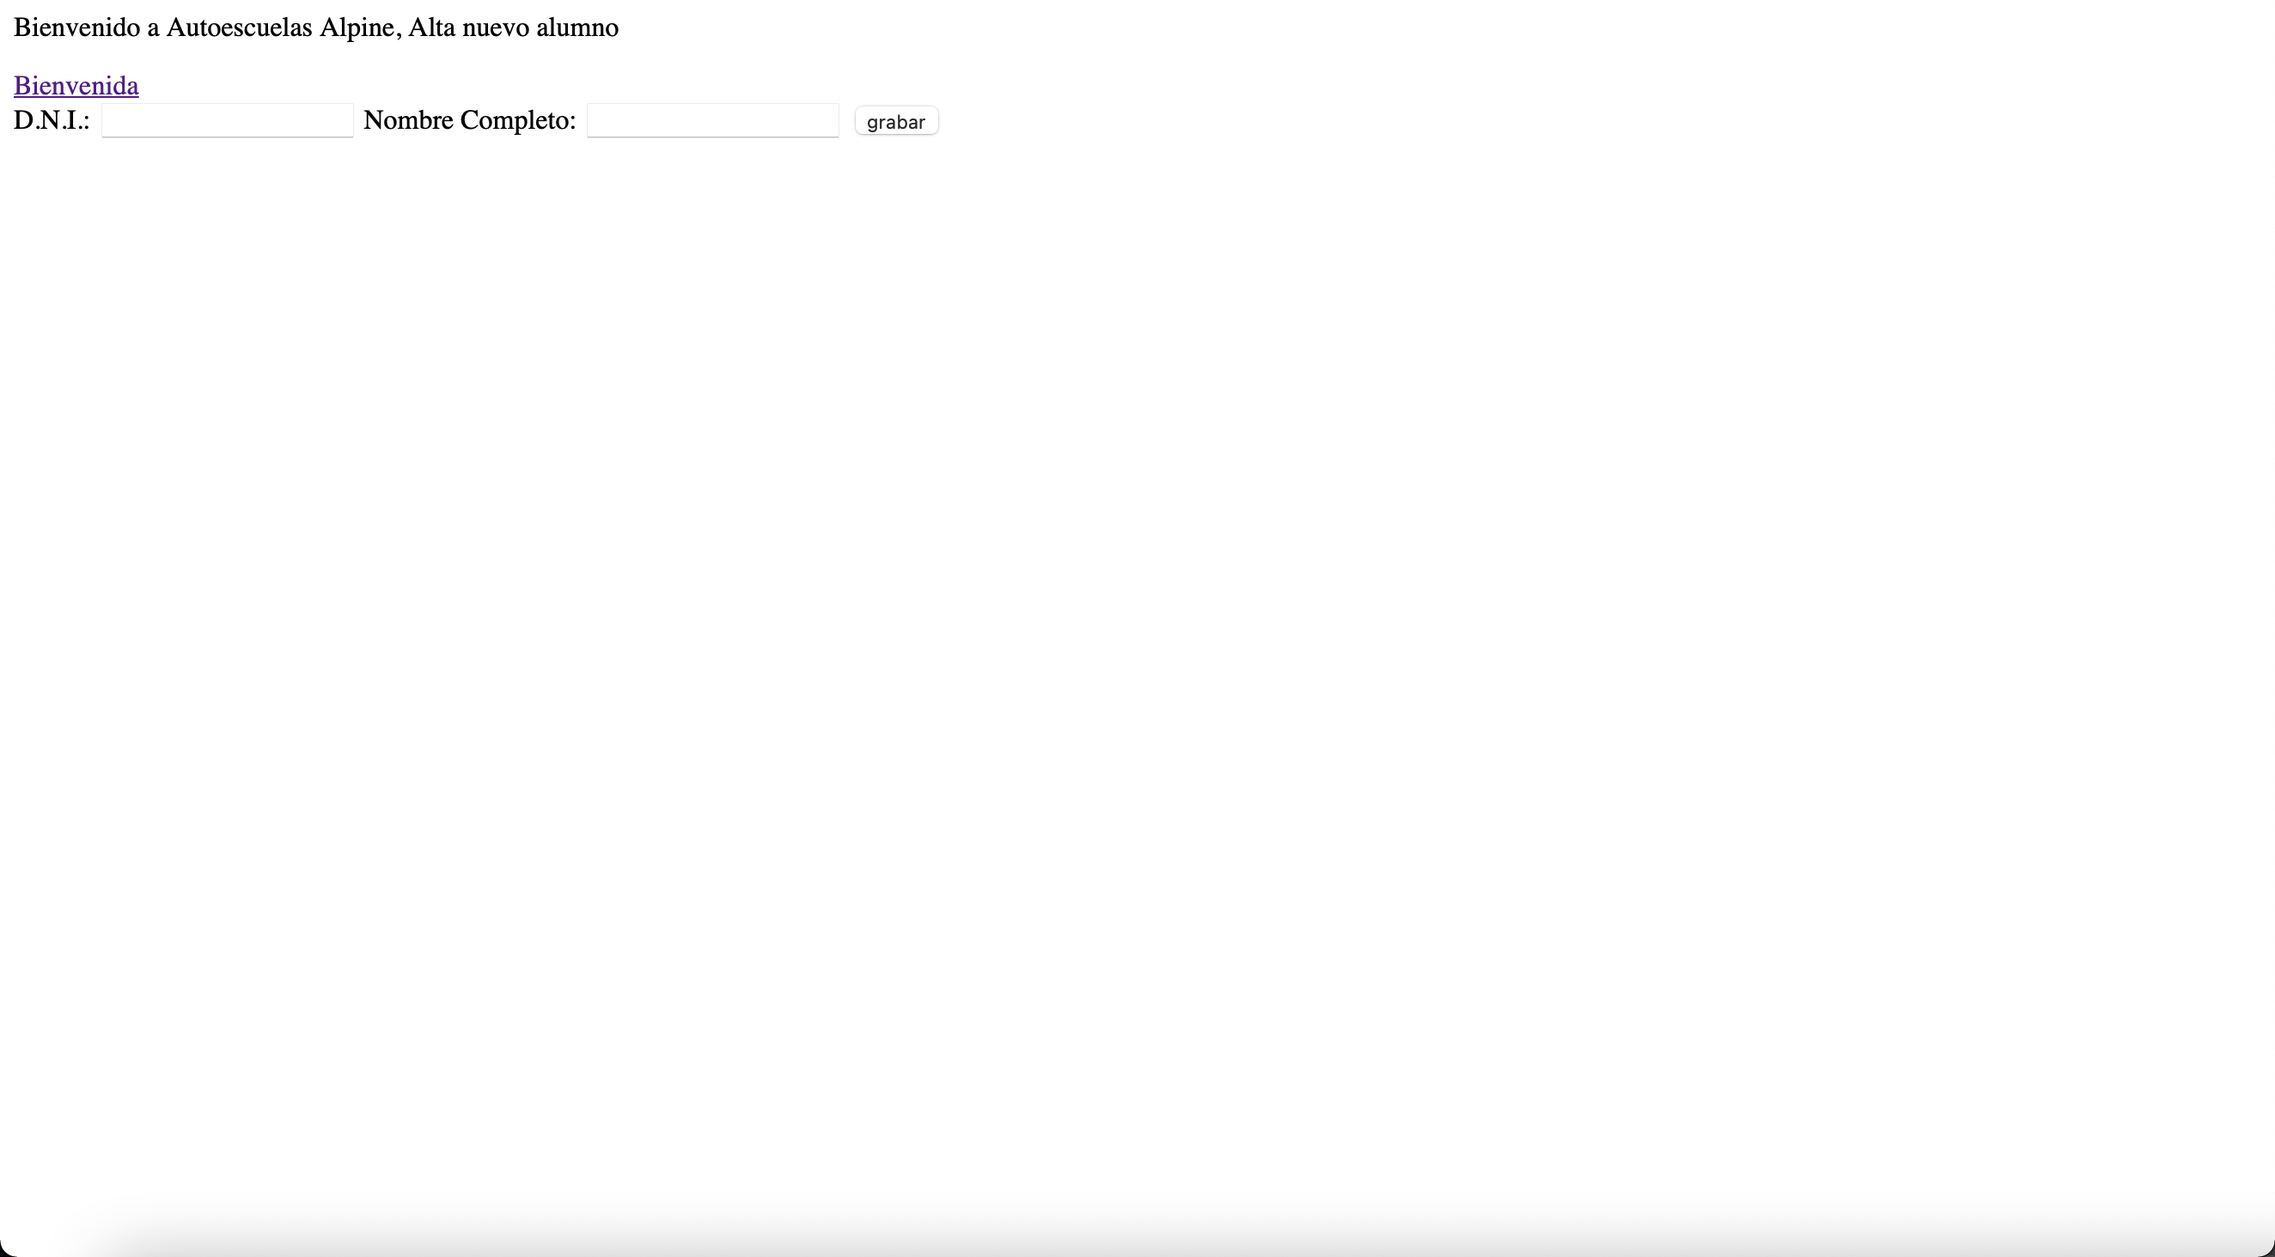
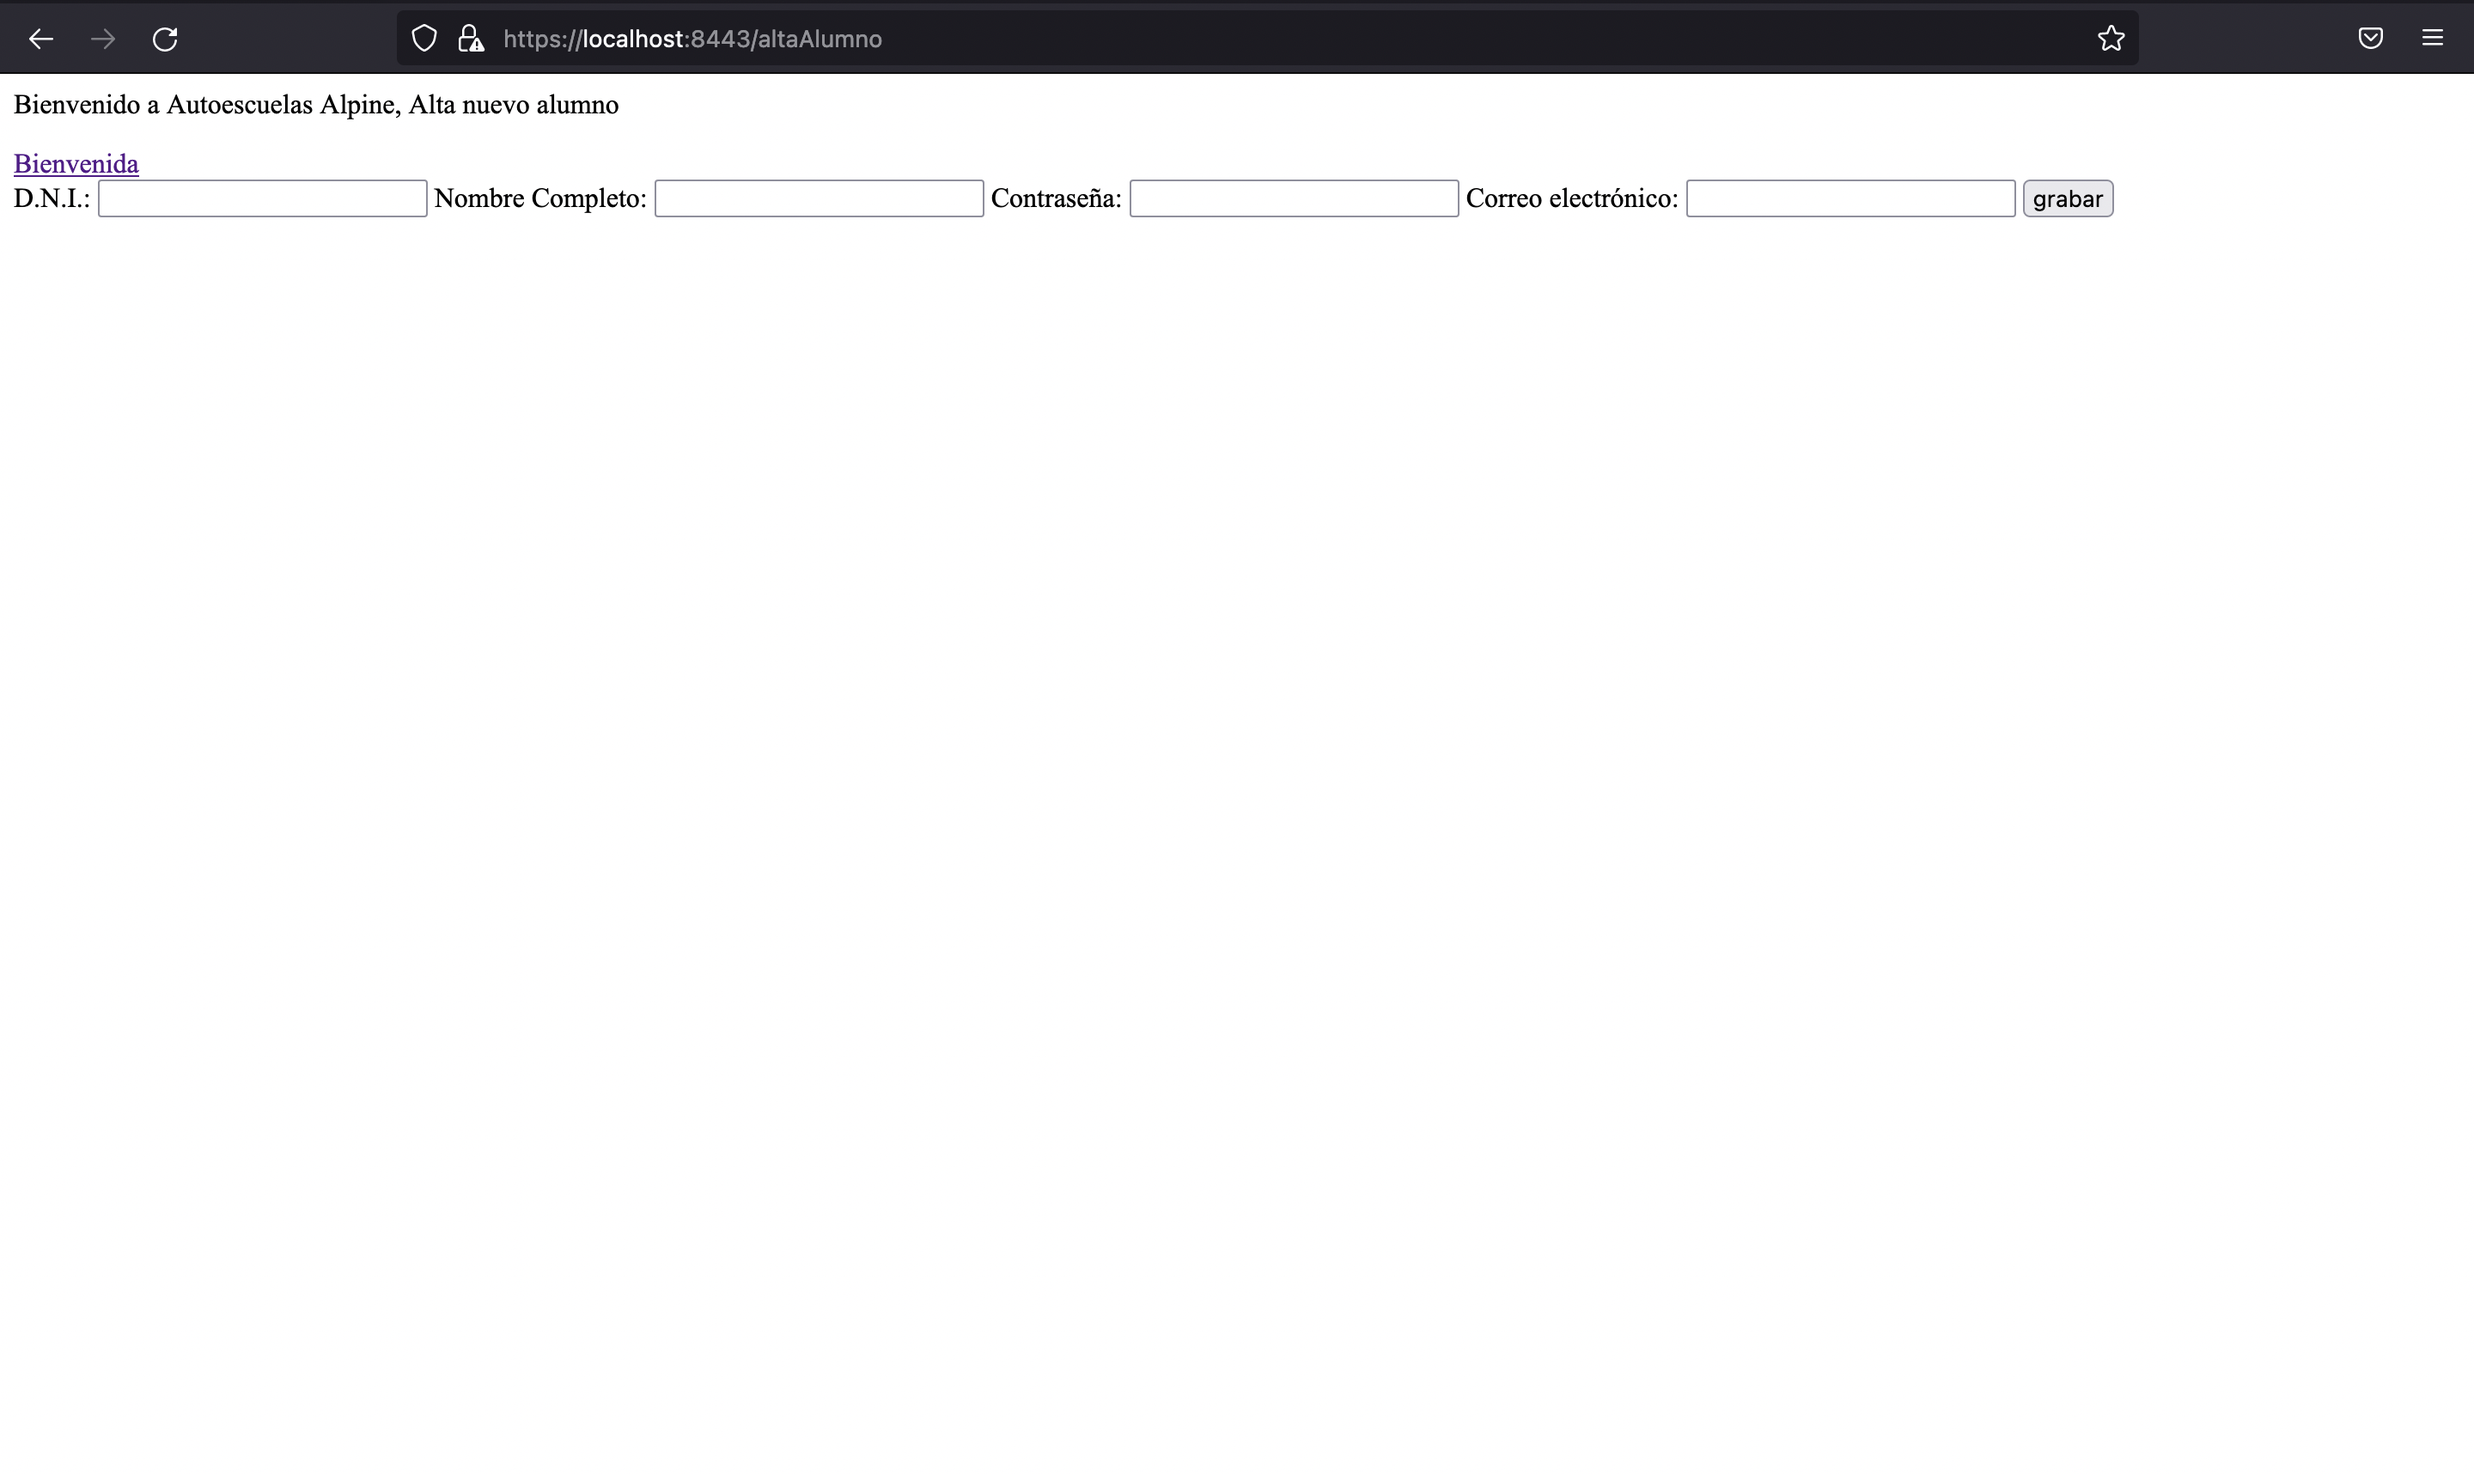
Actualizacion imagenes navegacion

diff --git a/README.md b/README.md
@@ -135,8 +135,10 @@ Una vez completado lo anterior se recomienda abrirse un editor de texto y crears
 De esta manera para ejecutar la app bastaria con hacer ./autoescuelaalpine.sh si diese error de permiso denegado se le puede dar permisos usando el commando “chmod ugo+rwx autoescuelaalpine.sh” al archivo, el .sh debe estar en el mismo directorio que los .jar y ejecutarse desde ese directorio.
 
 ## Capturas de pantalla
+![](https://github.com/Apenaj/Autoescuelas-Alpine/blob/main/img/Principal.png)
+Pagina principal una vez iniciamos sesion
 ![](https://github.com/Apenaj/Autoescuelas-Alpine/blob/main/img/AltaAlumno.png)
-Da de alta a un alumno
+Da de alta a un alumno, se enviara un correo de notificacion al usuario cuando se registre
 ![](https://github.com/Apenaj/Autoescuelas-Alpine/blob/main/img/BusquedaAlumno.png)
 Busca un alumno por su D.N.I y muestra los datos
 ![](https://github.com/Apenaj/Autoescuelas-Alpine/blob/main/img/AltaCarnet.png)
@@ -145,6 +147,8 @@ Añade un carnet especificando el tipo de carnet
 Busca si existe un tipo de carnet
 ![](https://github.com/Apenaj/Autoescuelas-Alpine/blob/main/img/AltaClase.png)
 Añade una nueva clase teorica
+![](https://github.com/Apenaj/Autoescuelas-Alpine/blob/main/img/BusquedaClase.png)
+Busca una clase ya existente
 ![](https://github.com/Apenaj/Autoescuelas-Alpine/blob/main/img/AltaProfesores.png)
 Da de alta un profesor
 ![](https://github.com/Apenaj/Autoescuelas-Alpine/blob/main/img/BuscaProfesores.png)
